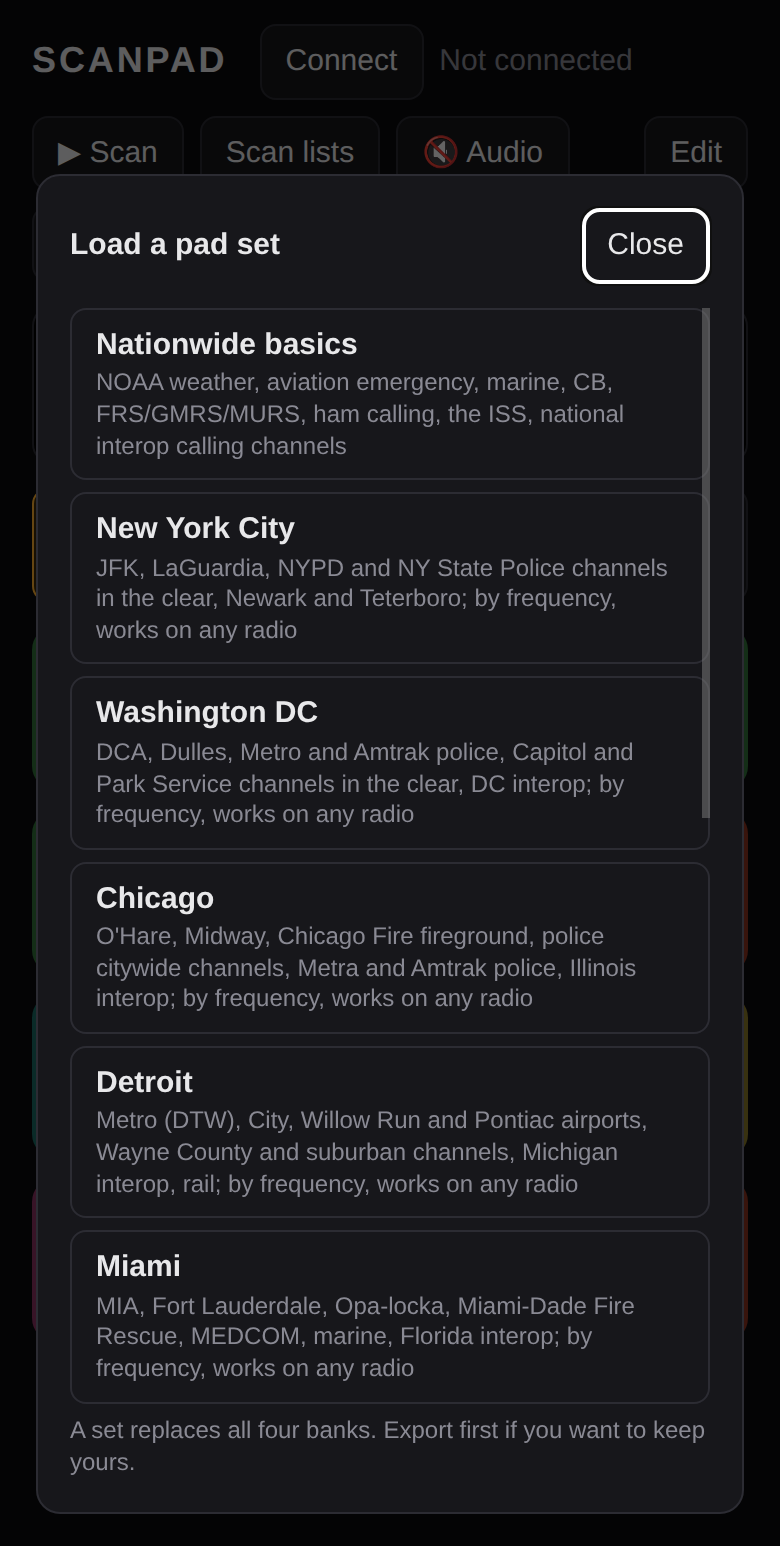
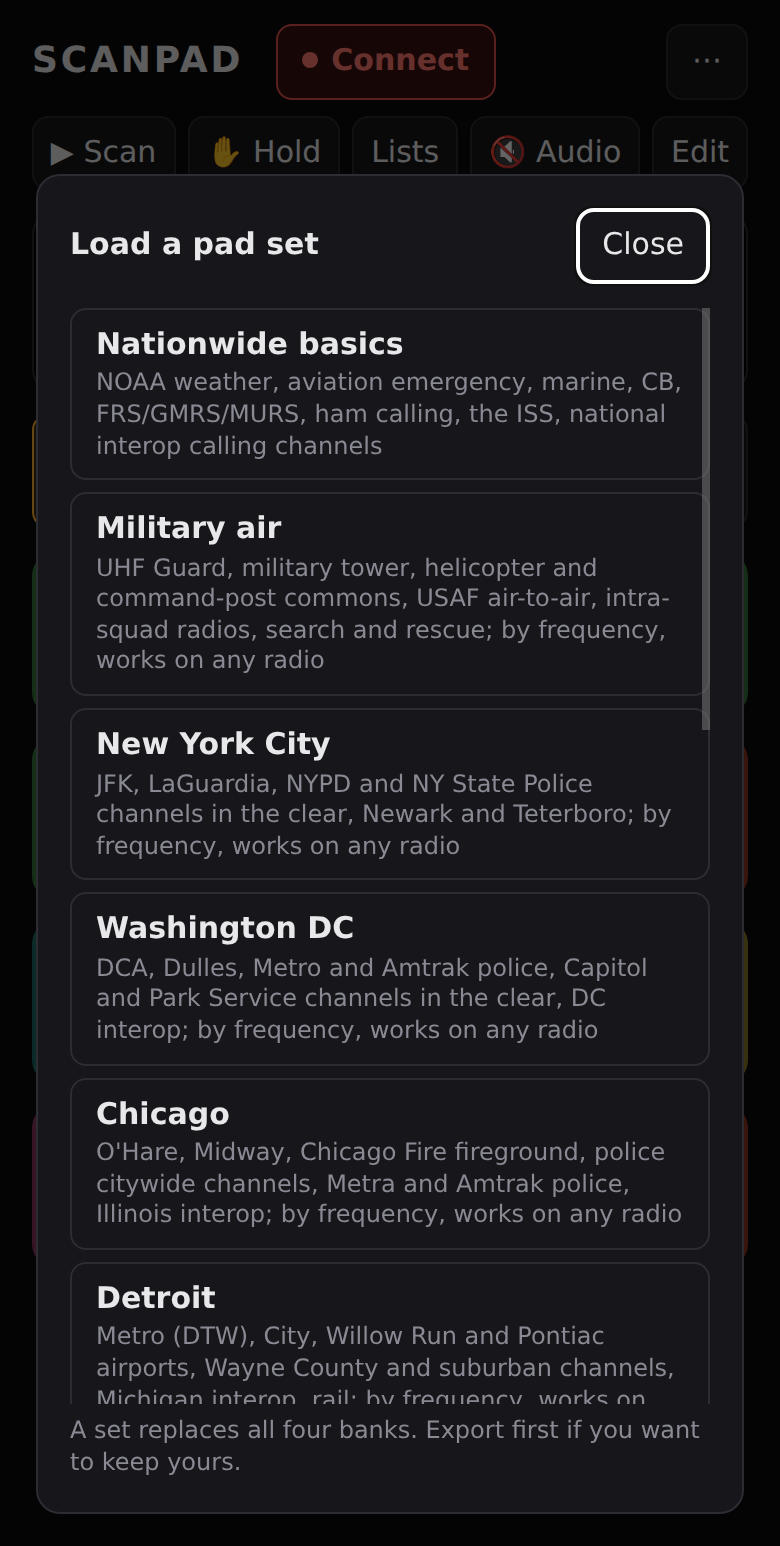
Hold what's playing and keep it as a pad; a tidier top bar
The connect button is now the link light (red Connect, amber while
connecting, green Connected, with a check before disconnecting), so the
separate status text goes. Export, Import and Defaults move into a ⋯
menu, which gives Scan, Hold, Lists, Audio and Edit one row on a phone.
Hold keeps the radio on what it's on now, by number tag or else by
frequency (H on a keyboard). When that channel isn't a pad yet, a
+ Pad chip on the display strip adds it to the bank's first empty pad.
README and screenshots updated.

diff --git a/index.html b/index.html
@@ -15,13 +15,34 @@
   h1 { font-size: 18px; letter-spacing: .08em; margin: 0 8px 0 0; }
   button { background: var(--panel); color: var(--text); border: 1px solid var(--line); border-radius: 8px; padding: 8px 12px; font: inherit; cursor: pointer; }
   button.on { background: #3a2a0a; border-color: var(--lcd); color: var(--lcd); }
+  /* One button shows the link: green connected, amber on its way, red not. */
+  #connect { font-weight: 600; white-space: nowrap; }
+  #connect::before { content: ""; display: inline-block; width: 8px; height: 8px; border-radius: 50%; background: currentColor; margin-right: 7px; vertical-align: 1px; }
+  #connect[data-s=connected] { background: #12351a; border-color: #5ad16b; color: #5ad16b; }
+  #connect[data-s=busy] { background: #3a2a0a; border-color: var(--lcd); color: var(--lcd); }
+  #connect[data-s=off] { background: #3a1010; border-color: #e0524a; color: #ff7a70; }
+  #controls { display: flex; gap: 8px; flex-wrap: wrap; }
+  header { position: relative; }
+  #moreMenu { position: absolute; right: 0; top: calc(100% + 6px); z-index: 5; display: flex; flex-direction: column; gap: 6px; padding: 8px; min-width: 170px;
+    background: var(--panel); border: 1px solid var(--line); border-radius: 10px; box-shadow: 0 8px 24px #000a; }
+  #moreMenu[hidden] { display: none; }
+  #moreMenu button { text-align: left; }
+  /* A phone: the controls get a row of their own under the title. */
+  @media (max-width: 700px) {
+    #controls { order: 9; width: 100%; gap: 6px; }
+    #controls button { flex: 1 1 auto; min-width: 0; padding: 8px 2px; white-space: nowrap; }
+  }
   .spacer { flex: 1; }
   /* The display strip, laid out like the radio's own screen: where it is on
      top, the channel name big, its tag and frequency along the bottom. Every
      line is one line high, so the strip keeps its height and the pads below
      don't jump while it scans; a name too long for the strip slides sideways. */
   #lcd { background: #000; border: 1px solid var(--line); border-radius: 10px; padding: 9px 14px 10px; color: var(--lcd); display: flex; flex-direction: column; gap: 2px; font-variant-numeric: tabular-nums; }
-  #lcdPath { font-size: 11px; font-weight: 600; letter-spacing: .07em; text-transform: uppercase; color: var(--dim); white-space: nowrap; overflow: hidden; text-overflow: ellipsis; min-height: 1.3em; }
+  #lcdTop { display: flex; align-items: center; gap: 8px; height: 17px; }
+  #lcdPath { flex: 1; min-width: 0; font-size: 11px; font-weight: 600; letter-spacing: .07em; text-transform: uppercase; color: var(--dim); white-space: nowrap; overflow: hidden; text-overflow: ellipsis; }
+  /* Shown when what's on isn't a pad yet: adds it to this bank. */
+  #addPad { flex: none; font: 600 11px/1 system-ui, -apple-system, sans-serif; padding: 2px 9px; border-radius: 999px; background: #3a2a0a; border-color: var(--lcd); color: var(--lcd); }
+  #addPad[hidden] { display: none; }
   #lcdNameBox { overflow: hidden; white-space: nowrap; font-size: 22px; font-weight: 600; line-height: 1.25; }
   #lcdNameBox.slide { -webkit-mask-image: linear-gradient(90deg, #000 calc(100% - 16px), transparent); mask-image: linear-gradient(90deg, #000 calc(100% - 16px), transparent); }
   #lcdName { display: inline-block; }
@@ -69,6 +90,8 @@
     header { gap: 6px; }
     header button { padding: 6px 9px; }
     h1 { width: 100%; }
+    #controls { order: 9; width: 100%; gap: 6px; }
+    #controls button { flex: 1 1 auto; white-space: nowrap; }
     #lcdNameBox { font-size: 18px; }
     #banks { display: grid; grid-template-columns: 1fr 1fr; align-self: start; gap: 6px; }
     #banks button { padding: 6px; }
@@ -110,20 +133,25 @@
 <body>
 <header>
   <h1>SCANPAD</h1>
-  <button id="connect">Connect</button>
-  <span id="status" style="color:var(--dim)">Not connected</span>
-  <button id="scan">▶ Scan</button>
-  <button id="lists">Scan lists</button>
-  <button id="audio" title="Play the radio's audio here">🔇 Audio</button>
+  <button id="connect" data-s="off">Connect</button>
+  <div id="controls">
+    <button id="scan">▶ Scan</button>
+    <button id="hold" title="Stay on what the radio is on now">✋ Hold</button>
+    <button id="lists" title="Scan lists">Lists</button>
+    <button id="audio" title="Play the radio's audio here">🔇 Audio</button>
+    <button id="edit">Edit</button>
+  </div>
   <span class="spacer"></span>
-  <button id="edit">Edit</button>
-  <button id="export">Export</button>
-  <button id="import">Import</button>
-  <button id="defaults">Defaults</button>
+  <button id="more" title="More">⋯</button>
+  <div id="moreMenu" hidden>
+    <button id="export">Export pads</button>
+    <button id="import">Import pads</button>
+    <button id="defaults">Default pad sets</button>
+  </div>
   <input id="file" type="file" accept=".json,application/json" hidden>
 </header>
 
-<div id="lcd"><div id="lcdPath">Connect to the SDS150</div><div id="lcdNameBox"><span id="lcdName">—</span></div><div id="lcdBot"><span id="lcdTag"></span><span id="lcdFreq"></span></div></div>
+<div id="lcd"><div id="lcdTop"><span id="lcdPath">Connect to the SDS150</span><button id="addPad" hidden>＋ Pad</button></div><div id="lcdNameBox"><span id="lcdName">—</span></div><div id="lcdBot"><span id="lcdTag"></span><span id="lcdFreq"></span></div></div>
 <div id="banks"></div>
 <div id="padArea"><div id="grid"></div></div>
 
@@ -246,9 +274,7 @@ const speaker = new Speaker();
 const radio = new SDS150({
   onAudio: packet => speaker.play(packet),
   onState(s) {
-    const label = { choosing: 'Choosing…', connecting: 'Connecting…', reconnecting: 'Link dropped, reconnecting…', connected: 'Connected', disconnected: 'Disconnected' }[s];
-    $('status').textContent = label;
-    $('connect').textContent = s === 'connected' || s === 'reconnecting' ? 'Disconnect' : 'Connect';
+    showLink(s);
     clearInterval(pollTimer);
     if (s === 'connected') {
       // Reading the screen every 1.5 s shows what the radio is on and keeps the link busy.
@@ -298,11 +324,22 @@ $('audio').onclick = async () => {
   $('audio').classList.toggle('on', speaker.on);
 };
 
+// The connect button is also the link's status light.
+let link = 'disconnected';
+function showLink(s) {
+  link = s;
+  $('connect').textContent = { choosing: 'Choosing…', connecting: 'Connecting…', reconnecting: 'Reconnecting…', connected: 'Connected' }[s] || 'Connect';
+  $('connect').dataset.s = s === 'connected' ? 'connected' : s === 'disconnected' ? 'off' : 'busy';
+}
+
 $('connect').onclick = async () => {
-  if (radio.connected || $('connect').textContent === 'Disconnect') return radio.disconnect();
+  if (link === 'connected' || link === 'reconnecting') {
+    if (confirm('Disconnect from the SDS150?')) radio.disconnect();
+    return;
+  }
   try { await radio.connect(); }
   catch (e) {
-    $('status').textContent = 'Not connected';
+    showLink('disconnected');
     // Keep the reason on screen (in the display strip) so it can be read off an iPad.
     if (e.name !== 'NotFoundError') showScreen({ path: 'Connect failed', name: e.message || String(e) });
   }
@@ -312,6 +349,40 @@ $('scan').onclick = async () => {
   if (!radio.connected) return toast('Connect to the SDS150 first');
   try { await radio.resumeScan(); } catch (e) { toast(`Send failed: ${e.message || e}`); }
 };
+
+// Stay on whatever the radio is on now, like its Channel key: jump to the
+// channel's number tag, or hold the frequency if it has none.
+$('hold').onclick = async () => {
+  if (!radio.connected) return toast('Connect to the SDS150 first');
+  try {
+    const now = parseScreen(await radio.ask('GST')) || screen;
+    if (now?.tag) await radio.jumpTag(now.tag);
+    else if (now?.mhz) { await radio.tune(now.mhz); liveSteps = mhzToSteps(now.mhz); renderGrid(); }
+    else toast('Nothing to hold yet');
+  } catch (e) { toast(e.message || String(e)); }
+};
+
+// Add what the strip shows to the first empty pad in this bank.
+$('addPad').onclick = () => {
+  const s = screen;
+  if (!s || padFor(s)) return;
+  const pads = state.banks[state.bank], i = pads.findIndex(p => !p);
+  if (i < 0) return toast(`Bank ${state.bank} is full`);
+  const color = COLORS[i % COLORS.length];
+  const named = s.name && parseFloat(s.name) !== parseFloat(s.mhz) ? s.name : '';
+  pads[i] = s.tag ? { kind: 'tag', name: (named || s.tag).slice(0, 24), tag: s.tag, color }
+    : { name: (named || `${+parseFloat(s.mhz).toFixed(4)} MHz`).slice(0, 24), mhz: parseFloat(s.mhz).toFixed(4), color };
+  save();
+  renderGrid();
+  showScreen(describe(s));
+  toast(`Added "${pads[i].name}" to bank ${state.bank}`);
+};
+
+// Export, Import and Defaults live in the ⋯ menu; any tap elsewhere closes it.
+$('more').onclick = () => { $('moreMenu').hidden = !$('moreMenu').hidden; };
+document.addEventListener('click', e => {
+  if (!e.target.closest('#more')) $('moreMenu').hidden = true;
+});
 
 function renderBanks() {
   $('banks').replaceChildren(...BANKS.map(b => {
@@ -329,8 +400,9 @@ function renderBanks() {
 function describe(scr) {
   const pad = padFor(scr);
   const held = !scr.tag && (!scr.name || parseFloat(scr.name) === parseFloat(scr.mhz));
-  if (held) return { path: 'Holding a frequency', name: pad ? pad.name : 'Frequency', mode: pad?.mode, mhz: scr.mhz };
-  return { path: [scr.system, scr.dept].filter(Boolean).join(' › '), name: scr.name || '—', tag: scr.tag, mode: pad?.mode, mhz: scr.mhz };
+  const canAdd = !pad && !!(scr.tag || scr.mhz);
+  if (held) return { path: 'Holding a frequency', name: pad ? pad.name : 'Frequency', mode: pad?.mode, mhz: scr.mhz, canAdd };
+  return { path: [scr.system, scr.dept].filter(Boolean).join(' › '), name: scr.name || '—', tag: scr.tag, mode: pad?.mode, mhz: scr.mhz, canAdd };
 }
 
 // The pad for what the radio is on, by tag or else by frequency: this bank's first.
@@ -341,8 +413,9 @@ function padFor(scr) {
     || (steps !== null && pads.find(p => p.mhz && mhzToSteps(p.mhz) === steps)) || null;
 }
 
-function showScreen({ path = '', name = '—', tag = '', mode = '', mhz = '' } = {}) {
+function showScreen({ path = '', name = '—', tag = '', mode = '', mhz = '', canAdd = false } = {}) {
   $('lcdPath').textContent = path;
+  $('addPad').hidden = !canAdd;
   $('lcdTag').textContent = [tag && `★ ${tag}`, mode].filter(Boolean).join(' · ');
   $('lcdFreq').textContent = mhz ? `${parseFloat(mhz).toFixed(4)} MHz` : '';
   if ($('lcdName').textContent !== name) { $('lcdName').textContent = name; slideName(); }
@@ -714,6 +787,7 @@ document.addEventListener('keydown', e => {
   const i = KEYS.indexOf(e.key.toLowerCase());
   if (i >= 0) { e.preventDefault(); press(i); }
   else if (e.key === ' ') { e.preventDefault(); $('scan').click(); }
+  else if (e.key.toLowerCase() === 'h') $('hold').click();
   else if (e.key === 'ArrowLeft' || e.key === 'ArrowRight') stepBank(e.key === 'ArrowLeft' ? -1 : 1);
 });
 

diff --git a/README.md b/README.md
@@ -27,6 +27,8 @@ server: open the page, tap **Connect**, pick your radio.
 - **Scan-list switches.** A pad can turn a favorites list, system or
   department on or off. A **scan-only** pad turns one list on, every other list
   off, and starts scanning, all in one press.
+- **Hold and keep.** Stop the scan on whatever's playing with **✋ Hold**, and
+  make it a pad with one more tap.
 - **Audio.** The SDS150 sends its sound over Bluetooth; ScanPad plays it on the
   device you're holding.
 - **Ready-made pad sets** for nine US cities, plus nationwide and military
@@ -50,23 +52,24 @@ AlphaScan or any other scanner app first.
 1. Turn on the SDS150's Bluetooth.
 2. Open <https://gonzalu.github.io/ScanPad/> in Chrome (or Bluefy on an
    iPhone).
-3. Tap **Connect** and pick **SDS150** from the list.
+3. Tap the red **Connect** button and pick **SDS150** from the list. The
+   button turns green and reads **Connected**; tap it again to disconnect.
 4. Tap a pad. The radio tunes there and holds; the pad glows.
 5. Tap **▶ Scan** to let the radio scan again.
 
 A first visit loads the **Nationwide basics** set: NOAA weather, aviation
-emergency, marine, ham calling channels, the ISS and more. Tap **Defaults** to
-pick a set for your city.
+emergency, marine, ham calling channels, the ISS and more. Tap **⋯** then
+**Default pad sets** to pick a set for your city.
 
 ## How to
 
 ### Load a set for your city
 
-1. Tap **Defaults**.
+1. Tap **⋯**, then **Default pad sets**.
 2. Pick a set from the list.
 3. Confirm. The set replaces all four banks.
 
-Tap **Export** first if you want to keep the pads you have.
+Tap **⋯** then **Export pads** first if you want to keep the pads you have.
 
 The city sets put the main airport on bank A, the other airports on B, police,
 fire and EMS channels on C, and weather, state police, interop, marine and
@@ -91,6 +94,21 @@ rail on D. See [Pad sets](#pad-sets) for the full list.
 now, tap **Use what's on now**.
 
 <p align="center"><img src="docs/screenshots/edit-pad.png" width="260" alt="Editing a pad: name LGA Tower, a tagged channel, frequency 118.700, number tag 2.1.201, and a row of colors"></p>
+
+### Stop on something while scanning, and keep it as a pad
+
+1. Let the radio scan your favorites.
+2. When it stops on something worth staying on, tap **✋ Hold**. The radio
+   stays on that channel, like pressing its Channel key. A channel with a
+   number tag is held by its tag (talkgroups too); one without, by its
+   frequency.
+3. If that channel isn't a pad yet, the display strip shows **＋ Pad**. Tap it
+   to put the channel on the first empty pad of the bank you're on. Rename or
+   recolor it later with **Edit**.
+4. Tap **▶ Scan** to carry on scanning.
+
+**＋ Pad** works while scanning too: it saves whatever the strip shows at that
+moment.
 
 ### Jump to a channel in your favorites by number tag
 
@@ -134,7 +152,7 @@ systems (`1.5`, system 5 in list 1) and departments (`1.2.3`) too.
 
 ### Turn lists, systems and departments on and off
 
-1. Tap **Scan lists**. You see the favorites lists on the radio, each with an
+1. Tap **Lists**. You see the favorites lists on the radio, each with an
    on/off switch.
 2. Tap a list to see its systems, and a system to see its departments.
 3. Flip a switch to change what the radio scans.
@@ -173,19 +191,21 @@ key in the corner.
 | `A` | `S` | `D` | `F` |
 | `Z` | `X` | `C` | `V` |
 
-`←` `→` switch banks. `Space` sends the radio back to scanning.
+`←` `→` switch banks. `Space` sends the radio back to scanning, and `H`
+holds it on what it's on.
 
 ### Move your pads to another device
 
-1. On the first device, tap **Export**. It saves `scanpad.json`.
+1. On the first device, tap **⋯**, then **Export pads**. It saves
+   `scanpad.json`.
 2. Move the file to the other device (AirDrop, email, a cloud drive).
-3. On the other device, tap **Import** and pick the file.
+3. On the other device, tap **⋯**, then **Import pads**, and pick the file.
 
 Pads are kept in the browser on each device; nothing is stored online.
 
 ## Pad sets
 
-**Defaults** lists the sets in [`pads/index.json`](pads/index.json).
+**Default pad sets** (in the **⋯** menu) lists the sets in [`pads/index.json`](pads/index.json).
 
 | Set | What's in it |
 | --- | --- |
@@ -224,8 +244,8 @@ back on.
 
 ## Make your own pads
 
-Build pads in the app with **Edit**, then **Export** to keep them. Or write a
-`scanpad.json` by hand (or ask an AI to) and **Import** it. Feel free to fork
+Build pads in the app with **Edit**, then **Export pads** to keep them. Or
+write a `scanpad.json` by hand (or ask an AI to) and load it with **Import pads**. Feel free to fork
 the project and ship your own sets. The format is four banks of 16 pads each
 (`null` is an empty pad):
 
@@ -254,9 +274,9 @@ the project and ship your own sets. The format is four banks of 16 pads each
 - `color`: any CSS color.
 
 The file can also carry `"names"`, keyed the same way (`{"1": "Police NY",
-"1.5": "Metro-25"}`), to label the Scan lists panel.
+"1.5": "Metro-25"}`), to label the Lists panel.
 
-To add a set to **Defaults**, put its file in `pads/` and list it in
+To add a set to **Default pad sets**, put its file in `pads/` and list it in
 `pads/index.json` with an `id` (the file name without `.json`), a `name` and
 an `about` line.
 
